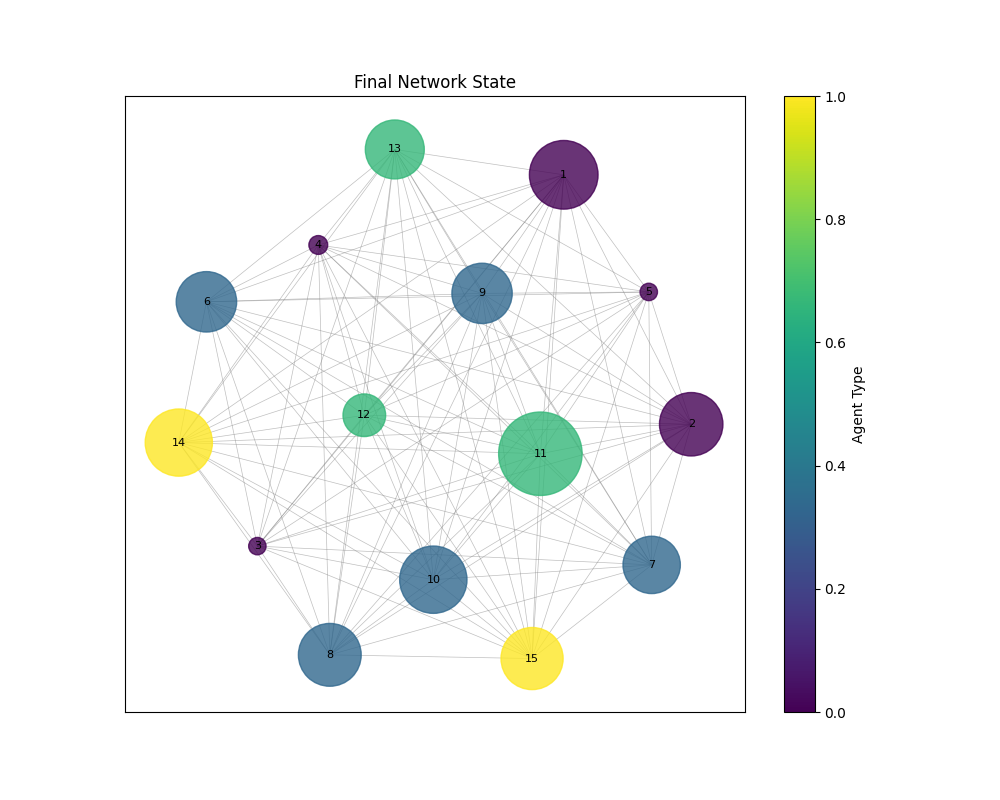
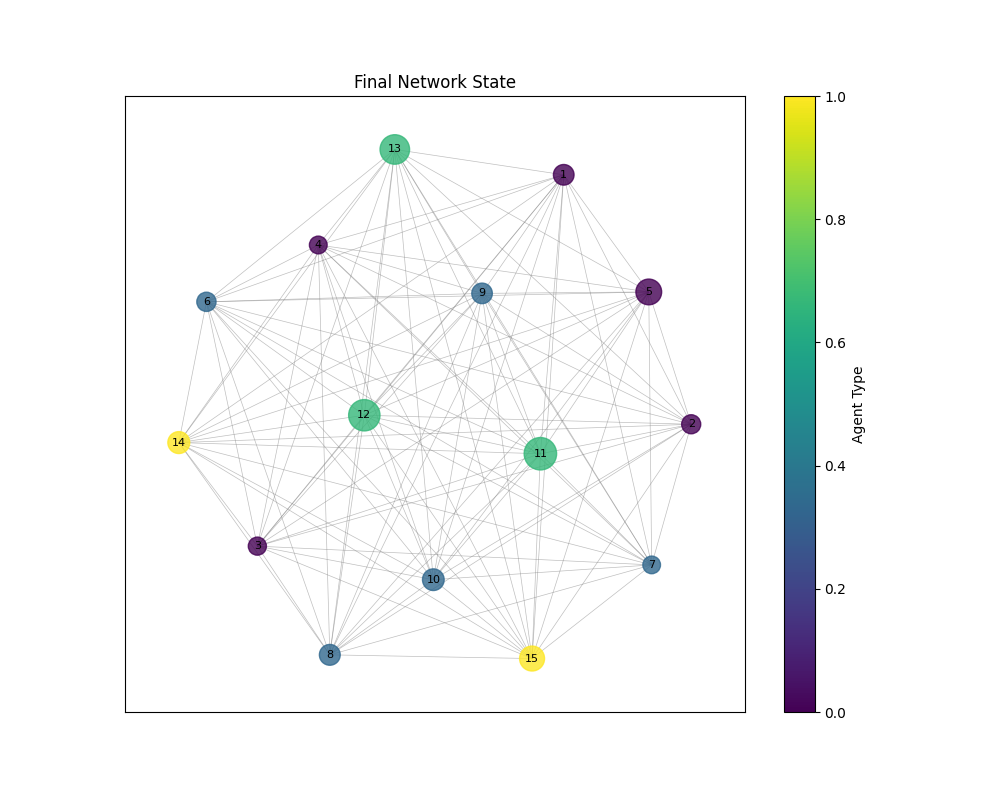
feat: Implement Scenario 2 (Institutional Fragility)

diff --git a/governance_model.py b/governance_model.py
@@ -65,16 +65,19 @@ class GovernanceAgent(mesa.Agent):
 class GovernanceModel(mesa.Model):
     """The main model for the governance network simulation."""
 
-    def __init__(self, num_agents_per_type, link_decay_rate, forum_frequency, project_resource_threshold):
+    def __init__(self, num_agents_per_type, link_decay_rate, forum_frequency, project_resource_threshold, midpoint_removal_step=None):
         super().__init__()
         self.num_agents_per_type = num_agents_per_type
         self.link_decay_rate = link_decay_rate
         self.forum_frequency = forum_frequency
         self.project_resource_threshold = project_resource_threshold
+        self.midpoint_removal_step = midpoint_removal_step
         self.agent_set = AgentSet([], self.random)
         self.G = nx.Graph()
         self.space = mesa.space.NetworkGrid(self.G)
         self.successful_projects = []
+        self.running = True # Control simulation loop
+        self.schedule = mesa.time.RandomActivation(self) # Initialize scheduler
 
         # Create agents
         self.create_agents()
@@ -89,12 +92,13 @@ class GovernanceModel(mesa.Model):
                 "Average Clustering": lambda m: nx.average_clustering(m.G),
                 "Number of Active Edges": lambda m: m.G.number_of_edges(),
                 "Successful Projects": lambda m: len(m.successful_projects),
+                "Largest Connected Component Size": lambda m: len(max(nx.connected_components(m.G), key=len)) if m.G.nodes else 0,
             },
             agent_reporters={
                 "agent_type": "agent_type",
                 "resources": "resources",
                 "commitment": "commitment",
-                "Degree Centrality": lambda a: a.model.G.degree[a.unique_id],
+                "Degree Centrality": lambda a: a.model.G.degree[a.unique_id] if a.unique_id in a.model.G else 0,
             },
         )
 
@@ -197,10 +201,17 @@ class GovernanceModel(mesa.Model):
 
     def step(self):
         """Advance the model by one step."""
+        self.schedule.step() # Advance the scheduler
+
+        if self.midpoint_removal_step and self.schedule.steps == self.midpoint_removal_step:
+            emu_agent = next((a for a in self.agent_set if hasattr(a, "is_emu")), None)
+            if emu_agent:
+                print(f"Removing EMU agent {emu_agent.unique_id} at step {self.schedule.steps}")
+                self.agent_set.remove(emu_agent)
+                self.G.remove_node(emu_agent.unique_id)
+
         self.trigger_forum_event()
         self.link_decay()
-        for agent in self.agent_set.shuffle():
-            agent.step()
         self.execute_joint_projects()
         self.datacollector.collect(self)
 
@@ -257,11 +268,39 @@ if __name__ == "__main__":
     print("\nFinal Network:")
     visualize_network(model, "Final Network State", save_path="results/final_network.png")
 
-    model_data = model.datacollector.get_model_vars_dataframe()
-    agent_data = model.datacollector.get_agent_vars_dataframe()
+    print("\n" + "-"*30)
+    print("Running Scenario 2: Institutional Fragility and Key Actor Departure")
+    print("-"*30 + "\n")
 
-    print("\nModel-level Data:")
-    print(model_data)
+    scenario2_params = {
+        "num_agents_per_type": {
+            AgentType.GOVERNMENT: 5,
+            AgentType.CSO: 5,
+            AgentType.PRIVATE_ENTERPRISE: 3,
+            AgentType.ACADEMIC: 2,
+        },
+        "link_decay_rate": 0.02,
+        "forum_frequency": 0.2,
+        "project_resource_threshold": 100,
+        "midpoint_removal_step": 50,
+    }
 
-    print("\nAgent-level Data:")
-    print(agent_data)
+    model2 = GovernanceModel(**scenario2_params)
+
+    print("Initial Network (Scenario 2):")
+    visualize_network(model2, "Initial Network State (Scenario 2)", save_path="results/scenario2_initial_network.png")
+
+    for i in range(100):
+        model2.step()
+
+    print("\nFinal Network (Scenario 2):")
+    visualize_network(model2, "Final Network State (Scenario 2)", save_path="results/scenario2_final_network.png")
+
+    model2_data = model2.datacollector.get_model_vars_dataframe()
+    agent2_data = model2.datacollector.get_agent_vars_dataframe()
+
+    print("\nModel-level Data (Scenario 2):")
+    print(model2_data)
+
+    print("\nAgent-level Data (Scenario 2):")
+    print(agent2_data)
